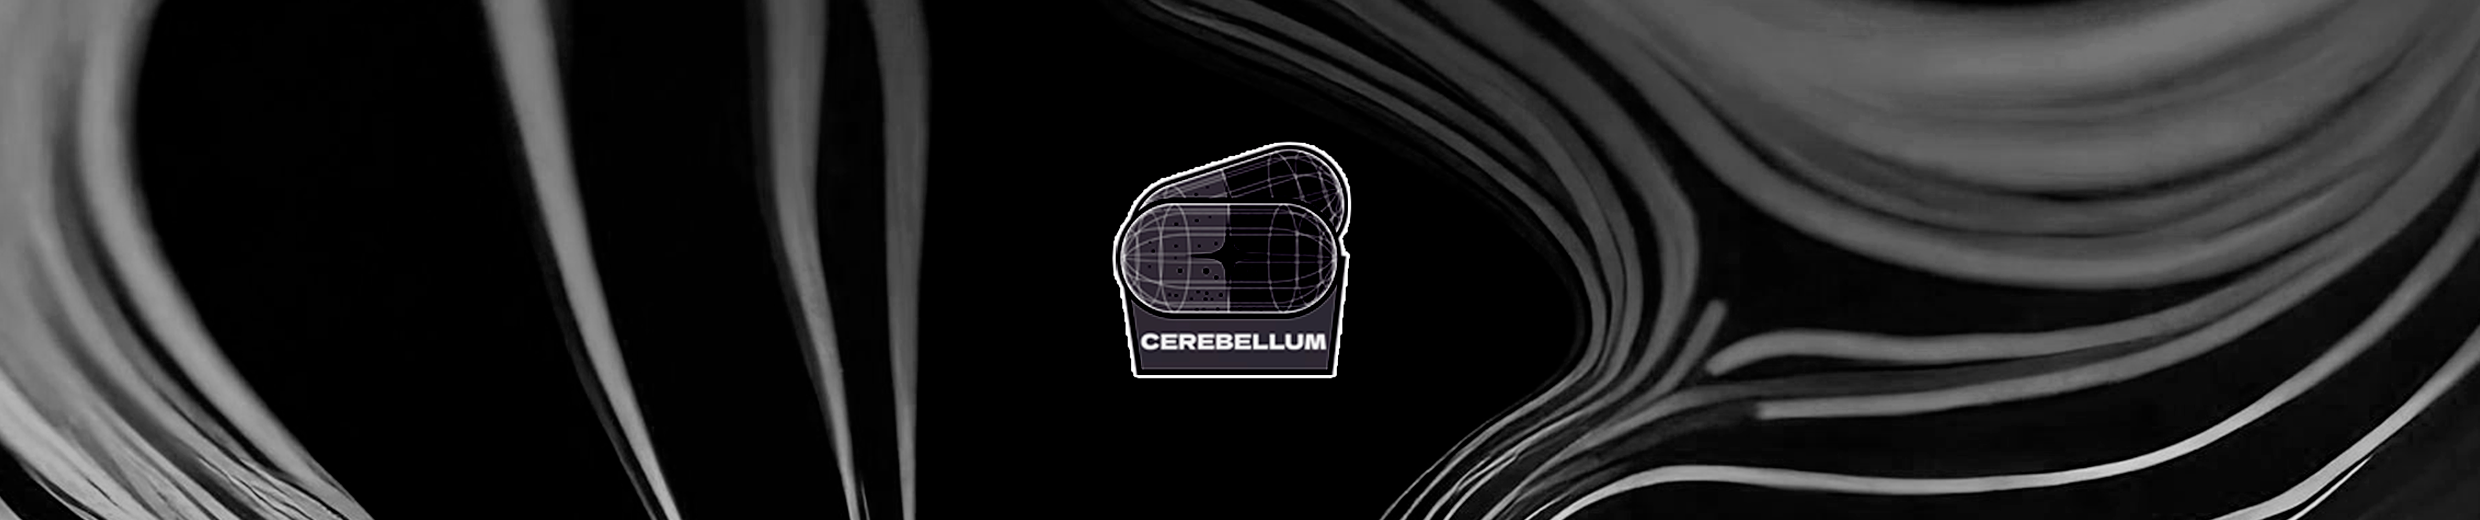
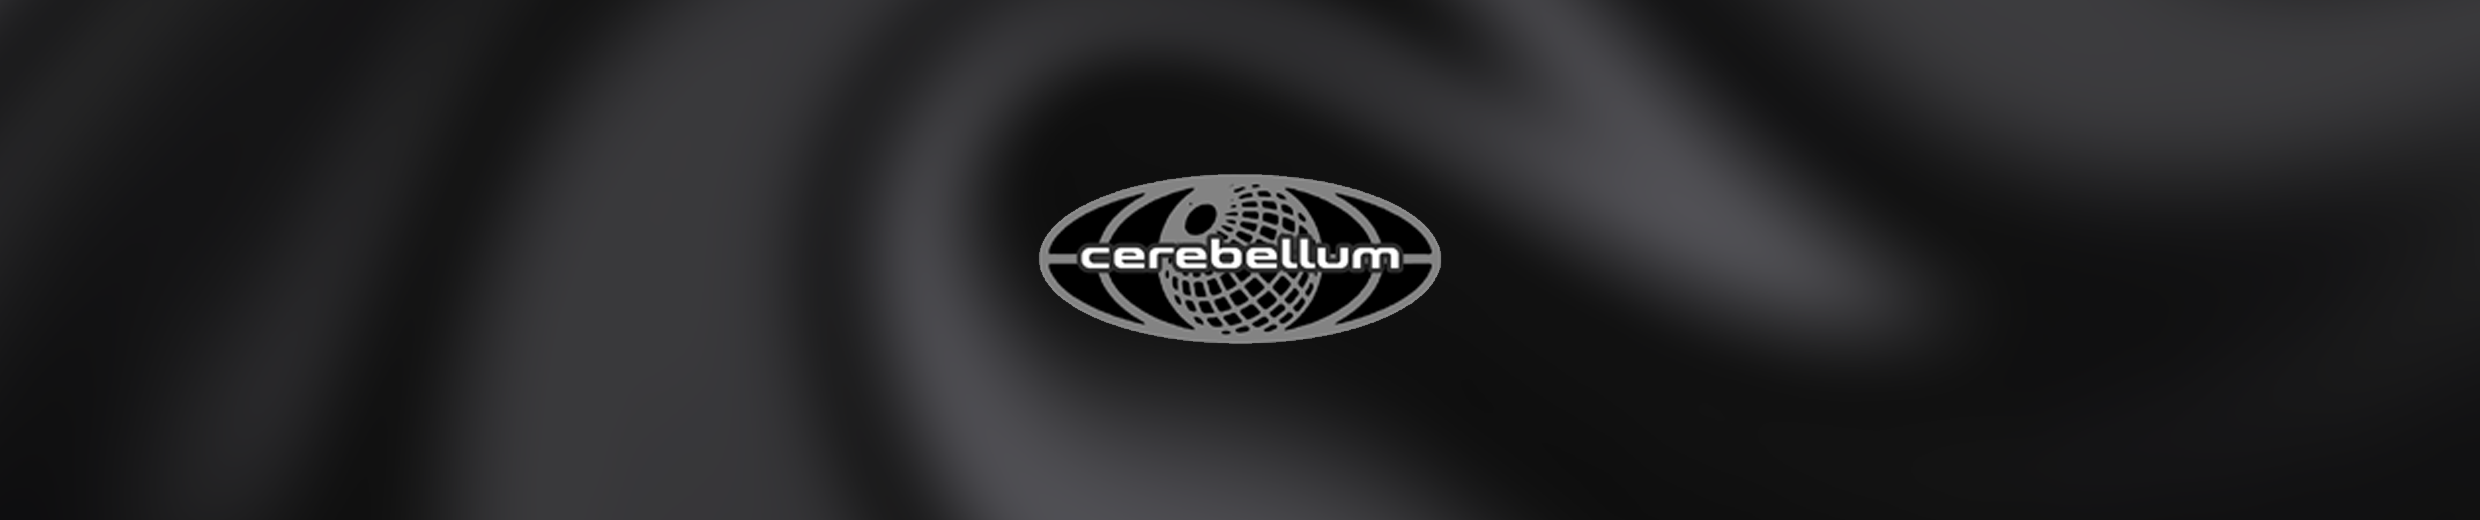
update

diff --git a/docs/CRBLMCD007.html b/docs/CRBLMCD007.html
@@ -1,0 +1,105 @@
+<!DOCTYPE html>
+<html lang="en">
+<head>
+    <meta charset="UTF-8">
+    <meta name="viewport" content="width=device-width, initial-scale=1.0">
+    <meta name="description" content="Cerebellum Trax Promo - Download the latest tracks and leave your feedback.">
+    <meta name="keywords" content="Cerebellum, Trax, Promo, Music, Download, Feedback">
+    <title>CEREBELLUM TRAX PROMO</title>
+    <link href="https://cdn.jsdelivr.net/npm/tailwindcss@2.2.19/dist/tailwind.min.css" rel="stylesheet">
+    <script type="module" src="https://unpkg.com/ionicons@5.5.2/dist/ionicons/ionicons.esm.js"></script>
+    <script nomodule src="https://unpkg.com/ionicons@5.5.2/dist/ionicons/ionicons.js"></script>
+    <style>
+        /* Garantir que o vídeo cubra toda a área de fundo */
+        .video-background {
+            position: fixed;
+            top: 0;
+            left: 0;
+            width: 100%;
+            height: 100%;
+            object-fit: cover;
+            z-index: -10; /* Coloca o vídeo atrás de todo o conteúdo */
+        }
+    </style>
+</head>
+<body class="bg-black text-gray-600 font-body">
+    <!-- Vídeo de fundo -->
+    <video id="backgroundVideo" src="slide15.mp4" loop autoplay muted playsinline class="video-background"></video>
+
+    <main class="ml-4 mr-4 lg:ml-64 lg:mr-64 bg-black bg-opacity-75 relative z-10">
+        <div class="mb-4">
+            <div class="flex justify-between items-center">
+                <img src="img/SOUNDCLOUD002.png" alt="Cerebellum Logo" class="w-90">
+            </div>
+        </div>
+
+        <div class="grid grid-cols-1 lg:grid-cols-2 gap-4">
+            <!-- First Column -->
+            <div class="w-full">
+                <img src="img/slide6.png" alt="Cerebellum Promo Art" class="w-full">
+            </div>
+
+            <!-- Second Column -->
+            <div class="w-full">
+                <!-- SoundCloud iframe and description -->
+                <div>
+                    <iframe width="100%" height="450" scrolling="no" frameborder="no" allow="autoplay" src="https://w.soundcloud.com/player/?url=https%3A//api.soundcloud.com/playlists/1974562780%3Fsecret_token%3Ds-c4KGett2Tw3&color=%23ff5500&auto_play=false&hide_related=false&show_comments=true&show_user=true&show_reposts=false&show_teaser=true"></iframe>
+                    <div style="font-size: 10px; color: #cccccc;line-break: anywhere;word-break: normal;overflow: hidden;white-space: nowrap;text-overflow: ellipsis; font-family: Interstate,Lucida Grande,Lucida Sans Unicode,Lucida Sans,Garuda,Verdana,Tahoma,sans-serif;font-weight: 100;">
+                        <a href="https://soundcloud.com/cerebellum-recs" title="Cerebellum Recs" target="_blank" style="color: #cccccc; text-decoration: none;">Cerebellum Recs</a> · <a href="https://soundcloud.com/cerebellum-recs/sets/frank-maurel-dont-make-ep-cardao-remix/s-c4KGett2Tw3" title="FRANK MAUREL - DONT MAKE EP  + CARDAO REMIX" target="_blank" style="color: #cccccc; text-decoration: none;">FRANK MAUREL - DONT MAKE EP  + CARDAO REMIX</a>
+                    </div>
+                    <div class="mt-4 text-white">
+                        DOWNLOAD WAV FILE HERE FROM SOUNDCLOUD, PLEASE DON'T FORGET TO LEAVE FEEDBACK.
+                    </div>
+                </div>
+                <div class="flex justify-center items-center mt-6">
+                    <a id="downloadBtn" href="downloads/CRBLM006. FRANK MAUREL - DONT MAKE EP (mp3).zip" class="bg-blue-800 hover:bg-blue-600 text-white font-bold py-2 px-4 rounded-full ml-4 disabled:opacity-50 disabled:cursor-not-allowed" download>
+                        DOWNLOAD MP3 (feedback)
+                    </a>
+                </div>
+            </div>
+        </div>
+
+        <!-- Feedback Form -->
+        <div class="mt-6">
+            <form id="contact-form" action="https://formspree.io/f/xdkgozrk" method="POST" class="mx-auto">
+                <div class="form-group mb-6">
+                    <input type="text" name="name" class="form-control block w-full px-3 py-1.5 text-base font-normal text-gray-700 bg-white border border-solid border-gray-300 rounded transition ease-in-out focus:text-gray-700 focus:bg-white focus:border-blue-600 focus:outline-none" placeholder="Name" required>
+                </div>
+                <div class="form-group mb-6">
+                    <input type="email" name="email" class="form-control block w-full px-3 py-1.5 text-base font-normal text-gray-700 bg-white border border-solid border-gray-300 rounded transition ease-in-out focus:text-gray-700 focus:bg-white focus:border-blue-600 focus:outline-none" placeholder="Email Address" required>
+                </div>
+                <div class="form-group mb-6">
+                    <textarea name="Feedback" class="form-control block w-full px-3 py-1.5 text-base font-normal text-gray-700 bg-white border border-solid border-gray-300 rounded transition ease-in-out focus:text-gray-700 focus:bg-white focus:border-yellow-500 focus:outline-none" rows="3" placeholder="Feedback" required></textarea>
+                </div>
+                <button type="submit" class="w-full px-6 py-2.5 bg-blue-800 text-white font-medium text-xs leading-tight uppercase rounded shadow-md hover:bg-blue-600 hover:shadow-lg focus:bg-blue-600 focus:shadow-lg focus:outline-none focus:ring-0 active:bg-yellow-600 active:shadow-lg transition duration-150 ease-in-out">Send</button>
+            </form>
+        </div>
+    </main>
+
+    <footer class="flex flex-col items-center bg-black text-center text-white py-6 relative z-10">
+        <div class="container px-6 pt-6">
+            <div class="mb-6 flex justify-center">
+                <a href="#!" class="m-1 h-9 w-9 rounded-full border-2 border-white text-white flex justify-center items-center transition duration-150 ease-in-out hover:bg-opacity-5 focus:outline-none" aria-label="Instagram">
+                    <ion-icon name="logo-instagram"></ion-icon>
+                </a>
+                <a href="#!" class="m-1 h-9 w-9 rounded-full border-2 border-white text-white flex justify-center items-center transition duration-150 ease-in-out hover:bg-opacity-5 focus:outline-none" aria-label="SoundCloud">
+                    <ion-icon name="logo-soundcloud"></ion-icon>
+                </a>
+                <!-- Add more social icons as needed -->
+            </div>
+        </div>
+        <div class="w-full p-4">
+            © 2024 Copyright:
+            <a class="text-white hover:underline" href="#">Cerebellum</a>
+        </div>
+    </footer>
+
+    <script>
+        // Disable download button after first click
+        document.getElementById('downloadBtn').addEventListener('click', function() {
+            this.disabled = true;
+            this.classList.add('disabled');
+        });
+    </script>
+</body>
+</html>
